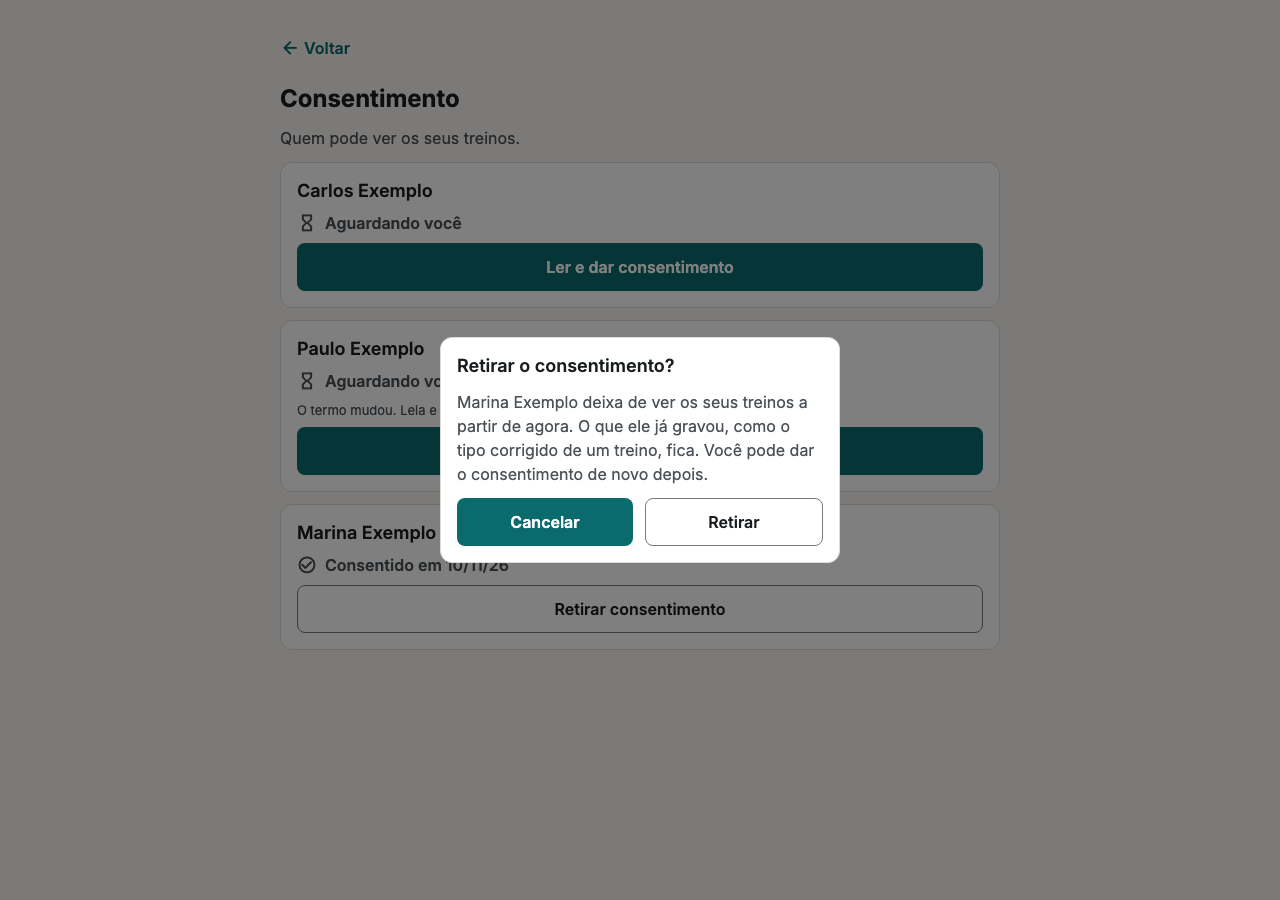
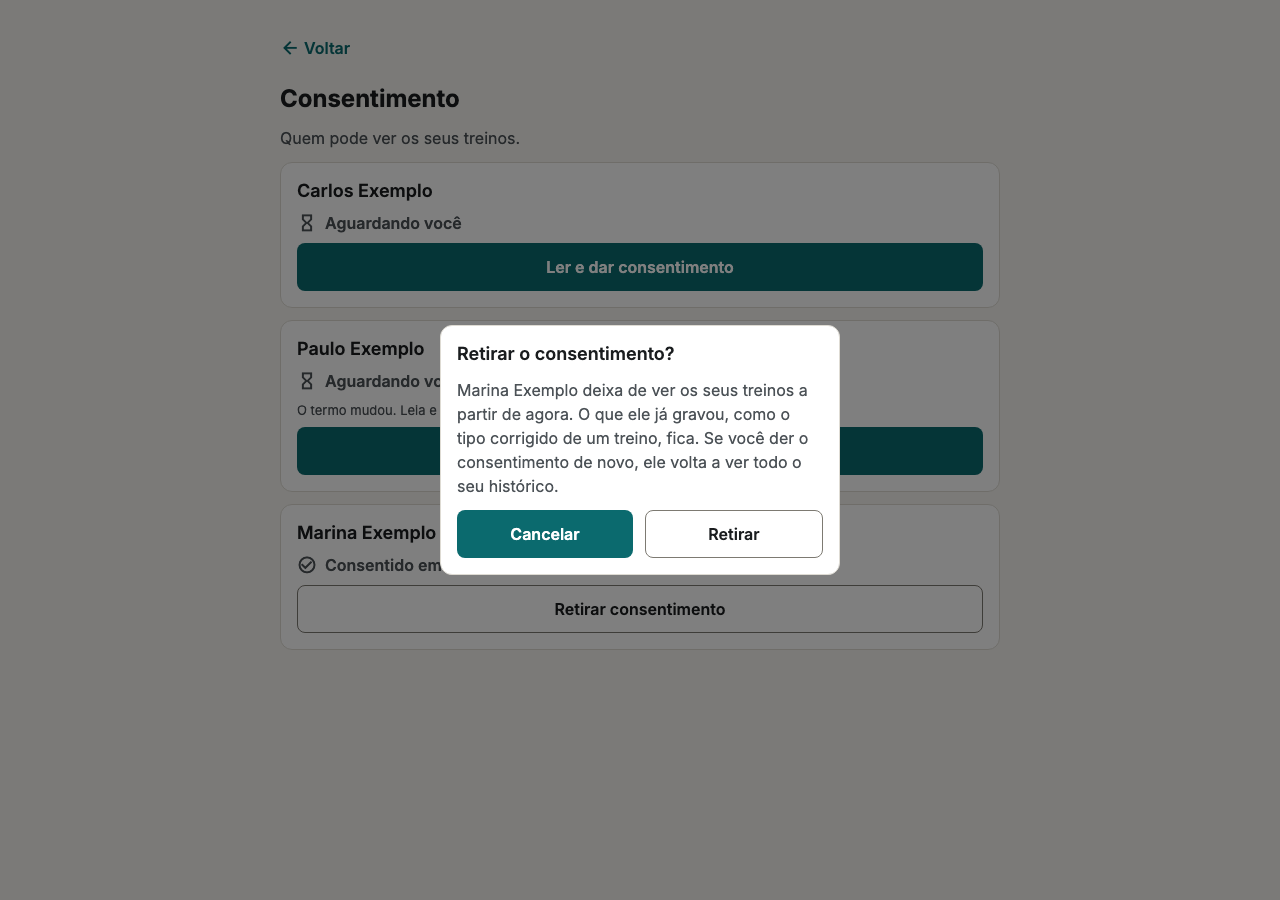
Consentimento: ajustes da Lia (texto do diálogo, aviso sem alert, faixas visíveis de registrado/retirado, 409 no topo) (#503)

Changed region(s): [[0.3438, 0.3422, 0.6562, 0.6533]]

diff --git a/apps/mobile/src/componentes/TelaConsentimento.tsx b/apps/mobile/src/componentes/TelaConsentimento.tsx
@@ -3,7 +3,7 @@
 // Estado em ícone e palavra, nunca só cor. Nada do que vem da API (nome, versão do termo) vai para log.
 import { MaterialIcons } from "@expo/vector-icons";
 import { type ComponentRef, useCallback, useEffect, useMemo, useRef, useState } from "react";
-import { AccessibilityInfo, Modal, Pressable, ScrollView, StyleSheet, Text, useWindowDimensions, View } from "react-native";
+import { Modal, Pressable, ScrollView, StyleSheet, Text, useWindowDimensions, View } from "react-native";
 
 import { buscarProfessores, dataCurta, ordenar, retirarConsentimento, type Vinculo } from "../consentimento/api";
 import { FOCAVEL, focar } from "../navegacao/foco";
@@ -19,8 +19,8 @@ type Props = {
   aoAbrirTermo: (professorId: number) => void;
   /** Muda quando a tela volta ao foco: busca a lista de novo (depois de dar o consentimento). */
   atualizar?: number;
-  /** Veio da tela do termo porque o vínculo não existe mais. */
-  avisoInexistente?: boolean;
+  /** Faixa neutra no alto, vinda da tela do termo: consentimento registrado, ou o vínculo não existe mais. */
+  aviso?: "registrado" | "inexistente" | null;
   fetchFn?: typeof fetch;
 };
 
@@ -28,12 +28,15 @@ type Estado = { tipo: "carregando" } | { tipo: "ok"; lista: Vinculo[] } | { tipo
 
 export const TEXTO_VAZIO = "Nenhum professor pediu para ver os seus treinos. Quando pedir, o pedido aparece aqui.";
 
-export function TelaConsentimento({ apiUrl, atletaId, aoVoltar, aoAbrirTermo, atualizar = 0, avisoInexistente = false, fetchFn }: Props) {
+export function TelaConsentimento({ apiUrl, atletaId, aoVoltar, aoAbrirTermo, atualizar = 0, aviso: avisoInicial = null, fetchFn }: Props) {
   const tema = useTema();
   const margem = useMargemTela();
   const styles = useMemo(() => criarEstilos(tema, margem), [tema, margem]);
   const [estado, setEstado] = useState<Estado>({ tipo: "carregando" });
   const [tentativa, setTentativa] = useState(0);
+  // A faixa fica até a pessoa sair da tela (não some sozinha); retirar troca a faixa por "Consentimento retirado.".
+  const [local, setLocal] = useState<{ de: typeof avisoInicial; valor: "retirado" } | null>(null);
+  const aviso: "registrado" | "retirado" | "inexistente" | null = local && local.de === avisoInicial ? local.valor : avisoInicial;
   const [retirando, setRetirando] = useState<Vinculo | null>(null);
   const [erroRetirar, setErroRetirar] = useState(false);
   const opcoes = useMemo(() => ({ baseUrl: apiUrl, fetch: fetchFn }), [apiUrl, fetchFn]);
@@ -62,14 +65,14 @@ export function TelaConsentimento({ apiUrl, atletaId, aoVoltar, aoAbrirTermo, at
     const r = await retirarConsentimento(atletaId, alvo.professor_id, opcoes);
     if (r.ok) {
       setErroRetirar(false);
-      AccessibilityInfo.announceForAccessibility?.("Consentimento retirado.");
+      setLocal({ de: avisoInicial, valor: "retirado" });
       setTentativa((n) => n + 1);
     } else if (r.erro.tipo === "nao_encontrado") {
       setTentativa((n) => n + 1); // sumiu: a lista recarrega sem ele
     } else {
       setErroRetirar(true);
     }
-  }, [retirando, atletaId, opcoes]);
+  }, [retirando, atletaId, opcoes, avisoInicial]);
 
   return (
     <ScrollView testID="tela-consentimento" contentContainerStyle={styles.container}>
@@ -84,7 +87,9 @@ export function TelaConsentimento({ apiUrl, atletaId, aoVoltar, aoAbrirTermo, at
           Consentimento
         </Text>
         <Text style={styles.texto}>Quem pode ver os seus treinos.</Text>
-        {avisoInexistente && <Faixa tipo="info" testID="faixa-inexistente" texto="Este pedido não existe mais." />}
+        {aviso === "inexistente" && <Faixa tipo="info" testID="faixa-inexistente" texto="Este pedido não existe mais." />}
+        {aviso === "registrado" && <Faixa tipo="info" testID="faixa-registrado" texto="Consentimento registrado." />}
+        {aviso === "retirado" && <Faixa tipo="info" testID="faixa-retirado" texto="Consentimento retirado." />}
         {erroRetirar && <Faixa tipo="erro" testID="faixa-erro-retirar" texto="Não foi possível retirar. Tente de novo." />}
 
         {estado.tipo === "carregando" && (
@@ -171,8 +176,7 @@ function DialogoRetirar({ vinculo, aoCancelar, aoConfirmar }: { vinculo: Vinculo
             Retirar o consentimento?
           </Text>
           <Text style={styles.texto}>
-            {vinculo?.nome} deixa de ver os seus treinos a partir de agora. O que ele já gravou, como o tipo corrigido de um treino, fica. Você pode dar o
-            consentimento de novo depois.
+            {vinculo?.nome} deixa de ver os seus treinos a partir de agora. O que ele já gravou, como o tipo corrigido de um treino, fica. Se você der o consentimento de novo, ele volta a ver todo o seu histórico.
           </Text>
           <View style={styles.botoes}>
             <Pressable testID="cancelar-retirar" accessibilityRole="button" onPress={aoCancelar} style={comFoco([styles.botao, styles.primario], styles.foco)}>

diff --git a/apps/mobile/__tests__/TelaConsentimento.test.tsx b/apps/mobile/__tests__/TelaConsentimento.test.tsx
@@ -1,4 +1,4 @@
-import { fireEvent, render, screen, waitFor } from "@testing-library/react-native";
+import { act, fireEvent, render, screen, waitFor } from "@testing-library/react-native";
 
 import { TEXTO_VAZIO, TelaConsentimento } from "../src/componentes/TelaConsentimento";
 import { TelaTermo } from "../src/componentes/TelaTermo";
@@ -88,6 +88,7 @@ describe("lista de consentimentos", () => {
     await fireEvent.press(screen.getByTestId("retirar-12"));
     await fireEvent.press(screen.getByTestId("confirmar-retirar"));
     await waitFor(() => expect(screen.getAllByText("Aguardando você")).toHaveLength(2));
+    expect(screen.getByText("Consentimento retirado.")).toBeTruthy();
     expect(screen.queryByTestId("retirar-12")).toBeNull();
   });
 
@@ -105,8 +106,19 @@ describe("lista de consentimentos", () => {
     expect(screen.getByTestId("retirar-12")).toBeTruthy();
   });
 
+  it("veio do termo com o consentimento registrado: faixa neutra visível que não some sozinha", async () => {
+    jest.useFakeTimers();
+    await render(lista(servidor({ "GET /atletas/1/professores": () => resposta(200, LISTA) }), { aviso: "registrado" }));
+    expect(await screen.findByText("Consentimento registrado.")).toBeTruthy();
+    await act(async () => {
+      jest.advanceTimersByTime(60_000);
+    });
+    expect(screen.getByText("Consentimento registrado.")).toBeTruthy();
+    jest.useRealTimers();
+  });
+
   it("veio do termo porque o pedido não existe mais: faixa com a frase", async () => {
-    await render(lista(servidor({ "GET /atletas/1/professores": () => resposta(200, LISTA) }), { avisoInexistente: true }));
+    await render(lista(servidor({ "GET /atletas/1/professores": () => resposta(200, LISTA) }), { aviso: "inexistente" }));
     expect(await screen.findByText("Este pedido não existe mais.")).toBeTruthy();
   });
 });
@@ -163,6 +175,18 @@ describe("tela do termo", () => {
     await fireEvent.press(screen.getByTestId("dar-consentimento"));
     expect(await screen.findByText("Não foi possível salvar. Tente de novo.")).toBeTruthy();
     expect(screen.getByTestId("li-e-concordo").props.accessibilityState.checked).toBe(true);
+  });
+
+  it("409: a faixa fica no topo do termo, logo abaixo do título, e é anunciada", async () => {
+    const f = servidor({
+      ...rotasBase,
+      "PUT /atletas/1/professores/11/consentimento": () => resposta(409, { detail: "o termo mudou" }),
+    });
+    await render(termo(f));
+    await fireEvent.press(await screen.findByTestId("li-e-concordo"));
+    await fireEvent.press(screen.getByTestId("dar-consentimento"));
+    const faixa = await screen.findByTestId("faixa-mudou");
+    expect(faixa.props.accessibilityLiveRegion).toBe("polite");
   });
 
   it("409: o termo mudou, recarrega e desmarca a caixa", async () => {

diff --git a/apps/mobile/src/componentes/TelaTermo.tsx b/apps/mobile/src/componentes/TelaTermo.tsx
@@ -2,7 +2,7 @@
 // a versão que o atleta leu. "Li e concordo" não vem marcado e liga o botão "Dar consentimento". Sem "aceitar tudo".
 import { MaterialIcons } from "@expo/vector-icons";
 import { useCallback, useEffect, useMemo, useState } from "react";
-import { AccessibilityInfo, Pressable, ScrollView, StyleSheet, Text, View } from "react-native";
+import { Pressable, ScrollView, StyleSheet, Text, View } from "react-native";
 
 import { buscarProfessores, buscarTermo, darConsentimento, type Termo } from "../consentimento/api";
 import { comFoco } from "../tema/foco";
@@ -66,7 +66,6 @@ export function TelaTermo({ apiUrl, atletaId, professorId, aoVoltar, aoConcluir,
     const r = await darConsentimento(atletaId, professorId, estado.termo.versao, opcoes);
     setSalvando(false);
     if (r.ok) {
-      AccessibilityInfo.announceForAccessibility?.("Consentimento registrado.");
       aoConcluir();
     } else if (r.erro.tipo === "nao_encontrado") {
       aoInexistente();
@@ -92,6 +91,8 @@ export function TelaTermo({ apiUrl, atletaId, professorId, aoVoltar, aoConcluir,
         <Text accessibilityRole="header" style={styles.titulo}>
           Termo de consentimento
         </Text>
+
+        {aviso === "mudou" && <Faixa tipo="info" testID="faixa-mudou" texto="O texto do termo mudou. Leia de novo antes de dar o consentimento." />}
 
         {estado.tipo === "carregando" && (
           <View>
@@ -150,7 +151,6 @@ export function TelaTermo({ apiUrl, atletaId, professorId, aoVoltar, aoConcluir,
             </Pressable>
             {aviso === "rede" && <Faixa tipo="erro" testID="faixa-erro" texto="Não foi possível salvar. Tente de novo." />}
             {aviso === "servidor" && <Faixa tipo="erro" testID="faixa-erro" texto="Algo deu errado do nosso lado. Tente de novo mais tarde." />}
-            {aviso === "mudou" && <Faixa tipo="info" testID="faixa-mudou" texto="O texto do termo mudou. Leia de novo antes de dar o consentimento." />}
             <Pressable
               testID="dar-consentimento"
               accessibilityRole="button"
@@ -163,7 +163,6 @@ export function TelaTermo({ apiUrl, atletaId, professorId, aoVoltar, aoConcluir,
             </Pressable>
           </>
         )}
-        {estado.tipo === "carregando" && aviso === "mudou" && <Faixa tipo="info" testID="faixa-mudou" texto="O texto do termo mudou. Leia de novo antes de dar o consentimento." />}
       </View>
     </ScrollView>
   );

diff --git a/apps/mobile/src/app/(app)/consentimento/index.tsx b/apps/mobile/src/app/(app)/consentimento/index.tsx
@@ -4,6 +4,8 @@ import { TelaConsentimento } from "../../../componentes/TelaConsentimento";
 import { useContadorDeFoco } from "../../../navegacao/useContadorDeFoco";
 import { useAtleta } from "../../../sessao/SessaoProvider";
 
+const avisoDaRota = (a?: string) => (a === "inexistente" || a === "registrado" ? a : null);
+
 export default function Consentimento() {
   const { aviso } = useLocalSearchParams<{ aviso?: string }>();
   const atualizar = useContadorDeFoco();
@@ -14,7 +16,7 @@ export default function Consentimento() {
       atletaId={atletaId}
       fetchFn={fetchFn}
       atualizar={atualizar}
-      avisoInexistente={(Array.isArray(aviso) ? aviso[0] : aviso) === "inexistente"}
+      aviso={avisoDaRota(Array.isArray(aviso) ? aviso[0] : aviso)}
       aoVoltar={() => (router.canGoBack() ? router.back() : router.replace("/"))}
       aoAbrirTermo={(id) => router.push(`/consentimento/${id}`)}
     />

diff --git a/apps/mobile/src/componentes/TelaEvolucao.tsx b/apps/mobile/src/componentes/TelaEvolucao.tsx
@@ -124,7 +124,7 @@ export function TelaEvolucao({
         Evolução dos tiros de 1 km
       </Text>
       {aoAbrirConsentimento && pedidos > 0 && (
-        <View testID="aviso-consentimento" accessibilityRole="alert" style={styles.avisoPedido}>
+        <View testID="aviso-consentimento" accessibilityLiveRegion="polite" style={styles.avisoPedido}>
           <MaterialIcons name="info-outline" size={tamanho.iconeGrande} color={tema.cor["texto-2"]} accessible={false} />
           <Text style={styles.avisoPedidoTexto}>Há um professor pedindo para ver seus treinos.</Text>
           <Pressable testID="ver-pedido" accessibilityRole="button" accessibilityLabel="Ver o pedido do professor" onPress={aoAbrirConsentimento} style={styles.avisoPedidoBotao}>

diff --git a/apps/mobile/__tests__/index.test.tsx b/apps/mobile/__tests__/index.test.tsx
@@ -314,6 +314,9 @@ describe("tela de evolução", () => {
       expect(await screen.findByText("Há um professor pedindo para ver seus treinos.")).toBeTruthy();
       await fireEvent.press(screen.getByTestId("ver-pedido"));
       expect(abrir).toHaveBeenCalled();
+      // Não é erro: região viva educada, nunca "alert" (seria lido toda vez que a tela abre).
+      expect(screen.getByTestId("aviso-consentimento").props.accessibilityRole).toBeUndefined();
+      expect(screen.getByTestId("aviso-consentimento").props.accessibilityLiveRegion).toBe("polite");
     });
 
     it("sem pedido, ou se a busca falhar, não há aviso", async () => {

diff --git a/apps/mobile/scripts/capturas-lib.js b/apps/mobile/scripts/capturas-lib.js
@@ -78,6 +78,7 @@ const ROTAS = [
   { nome: "sair-dialogo", caminho: "/", clicar: ["abrir-conta", "sair"] },
   // Consentimento do atleta (#503, spec docs/design/telas/consentimento.md).
   { nome: "consentimento", caminho: "/consentimento" },
+  { nome: "consentimento-registrado", caminho: "/consentimento?aviso=registrado" },
   { nome: "consentimento-vazio", caminho: "/consentimento", acesso: "atleta2" },
   { nome: "consentimento-erro-rede", caminho: "/consentimento", acesso: "atleta23" },
   { nome: "consentimento-erro", caminho: "/consentimento", acesso: "atleta27" },

diff --git a/apps/mobile/src/app/(app)/consentimento/[professorId].tsx b/apps/mobile/src/app/(app)/consentimento/[professorId].tsx
@@ -14,7 +14,7 @@ export default function Termo() {
       fetchFn={fetchFn}
       professorId={Number(Array.isArray(professorId) ? professorId[0] : professorId)}
       aoVoltar={voltar}
-      aoConcluir={voltar}
+      aoConcluir={() => (router.canGoBack() ? router.dismissTo("/consentimento?aviso=registrado") : router.replace("/consentimento?aviso=registrado"))}
       aoInexistente={() => router.replace("/consentimento?aviso=inexistente")}
     />
   );
